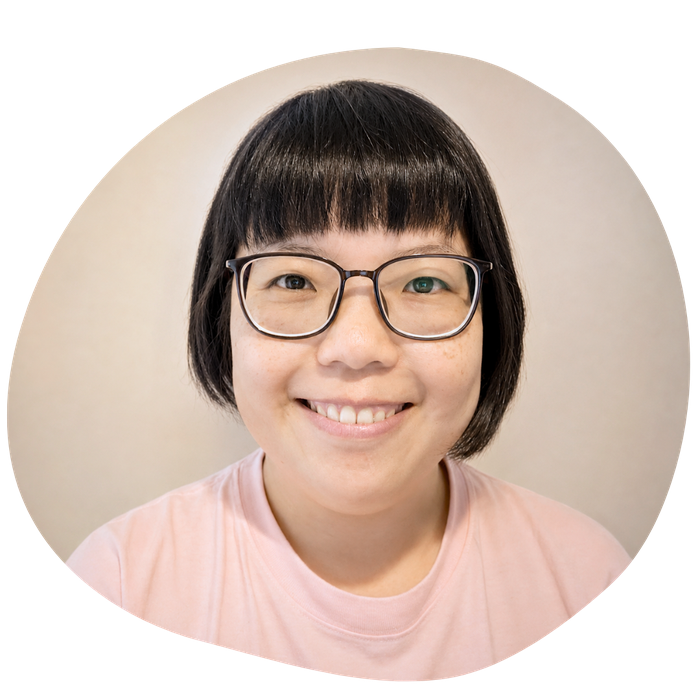
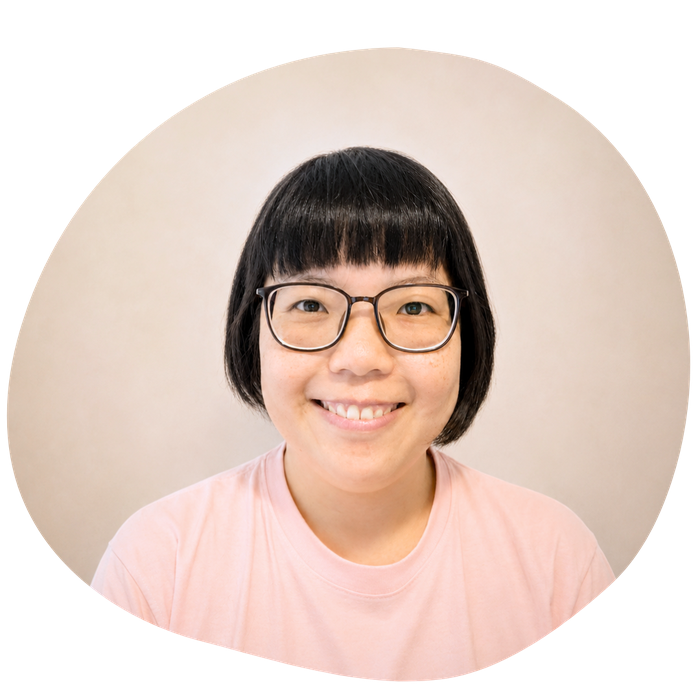
--

Changed region(s): [[0.09, 0.09, 0.81, 0.96], [0.63, 0.87, 0.66, 0.93], [0.6, 0.93, 0.63, 0.99]]

diff --git a/404.html b/404.html
@@ -4,16 +4,16 @@ title: "找不到頁面"
 permalink: /404.html
 ---
 <div style="text-align:center; padding:60px 20px;">
-  <img src="{{ '/assets/images/site/404-citrus.svg' | relative_url }}" alt="手繪柑橘切片插圖" style="width:180px; height:180px; margin-bottom:24px;">
+  <img src="{{ '/assets/images/site/404-citrus.svg' | relative_url }}" alt="手繪空的精油瓶，倒下滴出最後一滴油" style="width:180px; height:180px; margin-bottom:24px;">
   <p style="font-family:var(--font-sans); font-size:13px; font-weight:700; letter-spacing:0.15em; color:#ec827c; text-transform:uppercase; margin-bottom:10px;">
-    Oops! Sorry
+    Oops! Sorry!
   </p>
   <h1 style="font-family:var(--font-serif); font-size:24px; color:var(--indigo); margin-bottom:16px;">
     這個頁面，好像揮發掉了（哭）
   </h1>
   <p style="color:var(--text-primary); font-size:15px; line-height:1.85; max-width:440px; margin:0 auto;">
     抱歉，你剛剛點擊的網址不存在頁面。<br>
-    歡迎回到上一頁，截圖私訊或寄信讓我知道是哪裡需要修改，謝謝你。
+    歡迎截圖私訊或寄信讓我知道是哪個網址需要修改，謝謝你！
   </p>
   <p style="margin-top:20px; font-size:14px; color:var(--mist); line-height:1.9;">
     E-mail｜<a href="mailto:sherry.aromatherapy@gmail.com">sherry.aromatherapy@gmail.com</a><br>

diff --git a/assets/css/style.css b/assets/css/style.css
@@ -888,6 +888,46 @@ article.about{
   padding-bottom:var(--space-l);
   border-bottom:1px solid var(--linen);
 }
+.about-hero-split{
+  display:flex;
+  align-items:center;
+  gap:var(--space-l);
+  flex-wrap:wrap;
+  padding-bottom:var(--space-l);
+  border-bottom:1px solid var(--linen);
+}
+.about-hero-split-text{
+  flex:1 1 380px;
+}
+.about-hero-split-text h1{
+  font-family:var(--font-serif);
+  font-weight:700;
+  font-size:28px;
+  letter-spacing:0.08em;
+  line-height:1.6;
+  color:var(--indigo);
+  margin:0 0 var(--space-m);
+}
+.about-hero-split-text p{
+  font-size:15px;
+  color:var(--text-primary);
+  line-height:1.85;
+  margin:0 0 18px;
+}
+.about-hero-split-image{
+  flex:1 1 260px;
+  max-width:320px;
+}
+.about-hero-split-image img{
+  width:100%;
+  height:auto;
+  display:block;
+}
+@media (max-width:767px){
+  .about-hero-split-text h1{font-size:24px;}
+  .about-hero-split{flex-direction:column;}
+  .about-hero-split-image{max-width:240px; margin:0 auto;}
+}
 .about-hero h1{
   font-family:var(--font-serif);
   font-weight:700;

diff --git a/_pages/info.md b/_pages/info.md
@@ -4,15 +4,20 @@ layout: about
 permalink: /info/
 ---
 
-<div class="about-section about-hero">
-  <h1>哈囉你好～我是雪莉！<br>一個擅長釐清芳療裡模糊與混亂的知識工作者</h1>
-  <p>如果你已經看了很多芳療資料，卻還是常常不知道該相信誰、該怎麼選，我想做的，就是陪你把問題拆開來看。</p>
-  <p>當不同答案彼此衝突、很多條件同時存在時，我會和你一起找出：現在真正需要考慮的是什麼？</p>
-  <p>可能是安全條件、使用方式、你真正想處理的問題，也可能是兩個看起來差很多的產品，其實沒有差到會影響你的選擇。</p>
-  <p>我希望最後，你更知道自己為什麼這樣選，而不只是記得「老師說這瓶比較好」。</p>
-  <div class="about-footer-buttons" style="margin-top:28px;">
-    <a href="{{ '/start-here/' | relative_url }}" class="hero-btn hero-btn-primary">從這裡開始</a>
-    <a href="{{ '/archive/' | relative_url }}" class="hero-btn hero-btn-secondary">看我的文章</a>
+<div class="about-section about-hero-split">
+  <div class="about-hero-split-text">
+    <h1>哈囉你好～我是雪莉！<br>一個擅長釐清芳療裡模糊與混亂的知識工作者</h1>
+    <p>如果你已經看了很多芳療資料，卻還是常常不知道該相信誰、該怎麼選，我想做的，就是陪你把問題拆開來看。</p>
+    <p>當不同答案彼此衝突、很多條件同時存在時，我會和你一起找出：現在真正需要考慮的是什麼？</p>
+    <p>可能是安全條件、使用方式、你真正想處理的問題，也可能是兩個看起來差很多的產品，其實沒有差到會影響你的選擇。</p>
+    <p>我希望最後，你更知道自己為什麼這樣選，而不只是記得「老師說這瓶比較好」。</p>
+    <div class="about-footer-buttons" style="justify-content:flex-start; margin-top:28px;">
+      <a href="{{ '/start-here/' | relative_url }}" class="hero-btn hero-btn-primary">從這裡開始</a>
+      <a href="{{ '/archive/' | relative_url }}" class="hero-btn hero-btn-secondary">看我的文章</a>
+    </div>
+  </div>
+  <div class="about-hero-split-image">
+    <img src="{{ '/assets/images/site/sherry-portrait.png' | relative_url }}" alt="雪莉">
   </div>
 </div>
 
@@ -44,10 +49,7 @@ permalink: /info/
     <p>我能做的，比較像是在你第一次準備自由行的時候，陪你一起把事情整理清楚。我會跟你分享哪些安全原則要先知道、哪些條件會影響選擇，也會告訴你我是怎麼判斷的，讓你少一點反覆搜尋和猜測。</p>
     <p>可是最後真的走出去、使用、觀察、調整的，還是你自己。</p>
     <p>等你真的走過一次之後，很多原本看起來很複雜的事情，下一次就會變得比較熟悉。你也會慢慢知道自己喜歡什麼、哪些資訊對自己有用、遇到新的情況可以從哪裡開始想。</p>
-    <p><strong>我想陪大家走的，大概就是這一段：從「我看過很多，可是真的要自己來還是有點怕」，慢慢走到「喔，我知道自己可以怎麼開始了」。</strong></p>
-  </div>
-  <div class="about-quote-card">
-    <p>「其實你手邊已經有可以用的東西了。」</p>
+    <p style="font-weight:600; color:var(--text-primary);">我想陪大家走的，大概就是這一段：從「我看過很多，可是真的要自己來還是有點怕」，慢慢走到「喔，我知道自己可以怎麼開始了」。</p>
   </div>
 </div>
 
@@ -92,7 +94,7 @@ permalink: /info/
   <div class="about-heading">為什麼我會這樣工作？</div>
   <div class="about-split">
     <div class="about-split-image">
-      <img src="{{ '/assets/images/site/sherry-portrait.png' | relative_url }}" alt="雪莉">
+      <img src="{{ '/assets/images/site/sherry-notes.png' | relative_url }}" alt="雪莉手寫的芳療自學筆記">
     </div>
     <div class="about-split-text">
       <p>我曾在法國芳療品牌工作十年，長期站在產品、知識和使用者中間。</p>
@@ -150,9 +152,9 @@ permalink: /info/
       <a href="{{ '/sherrybooks/' | relative_url }}" class="section-more">→ 看我的書籍與文章</a>
     </div>
     <div class="about-service-card">
-      <div class="about-service-title">課程與工作坊</div>
-      <div class="about-service-desc">如果你喜歡有人帶著理解，也想真的聞、比較、操作，可以看看目前的課程與工作坊。</div>
-      <a href="{{ '/start-here/' | relative_url }}" class="section-more">→ 看目前的課程與活動</a>
+      <div class="about-service-title">一對一芳療</div>
+      <div class="about-service-desc">如果你的情況比較複雜，或者有一個很具體、很想好好弄清楚的芳療問題，我們也可以一起整理。我會提供我的經驗、資料與判斷，也會把你的實際情況放在問題裡一起考慮。</div>
+      <a href="{{ '/custom-aroma-session/' | relative_url }}" class="section-more">→ 了解一對一芳療</a>
     </div>
     <div class="about-service-card">
       <div class="about-service-title">主題 Q&amp;A</div>
@@ -160,9 +162,9 @@ permalink: /info/
       <a href="{{ '/archive/' | relative_url }}" class="section-more">→ 看近期 Q&amp;A 與公開內容</a>
     </div>
     <div class="about-service-card">
-      <div class="about-service-title">一對一芳療</div>
-      <div class="about-service-desc">如果你的情況比較複雜，或者有一個很具體、很想好好弄清楚的芳療問題，我們也可以一起整理。我會提供我的經驗、資料與判斷，也會把你的實際情況放在問題裡一起考慮。</div>
-      <a href="{{ '/custom-aroma-session/' | relative_url }}" class="section-more">→ 了解一對一芳療</a>
+      <div class="about-service-title">課程與工作坊</div>
+      <div class="about-service-desc">如果你喜歡有人帶著理解，也想真的聞、比較、操作，可以看看目前的課程與工作坊。</div>
+      <a href="{{ '/start-here/' | relative_url }}" class="section-more">→ 看目前的課程與活動</a>
     </div>
   </div>
   <a href="{{ '/start-here/' | relative_url }}" class="about-cta-banner">
